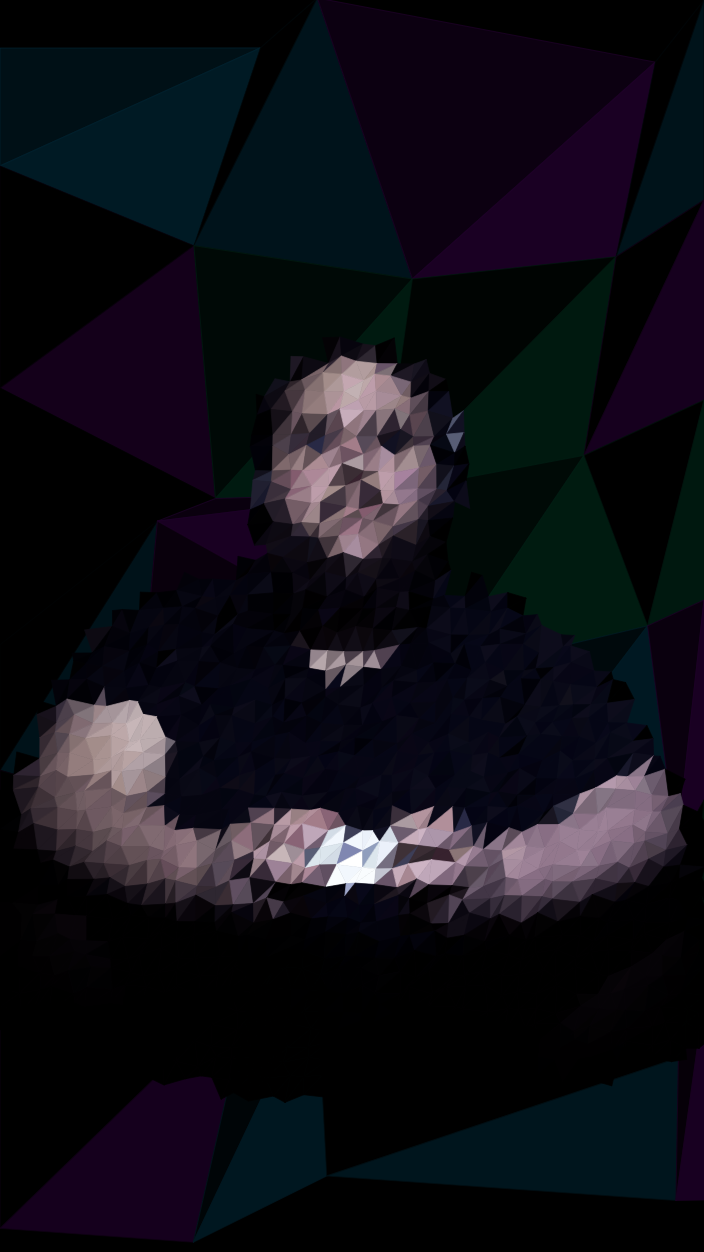
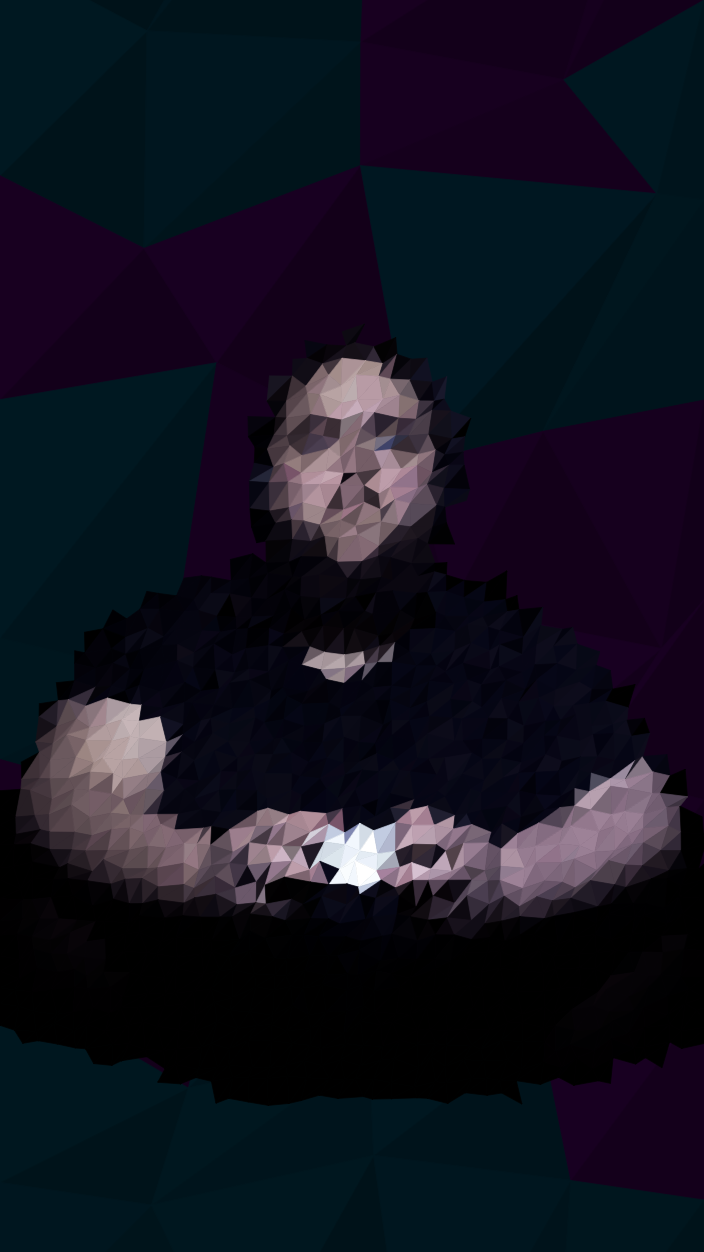
Post-project tweaks

diff --git a/sketch.js b/sketch.js
@@ -5,15 +5,10 @@
 let sourceImg=null;
 let maskImg=null;
 let renderCounter=0;
-let graphicElements=[];
 
 let sourceFile = "input_1.png";
 let maskFile   = "mask_1.png";
 let outputFile = "artwork_1.png";
-
-let graphicFile1 = "graphic.png";
-// let graphicFile2 = "graphic_3.png";
-
 
 function preload() {
   sourceImg = loadImage(sourceFile);
@@ -35,7 +30,7 @@ function setup () {
 
 function draw () {
   let outerPointSpacing = 200;
-  let outerPoints = getPoints(outerPointSpacing, outerPointSpacing/5, outerPointSpacing/2);
+  let outerPoints = getPoints(outerPointSpacing, outerPointSpacing/4, outerPointSpacing/3);
 
   // Inner Points
   let innerPointSpacing = 18;
@@ -46,7 +41,7 @@ function draw () {
 
   // Draw Outer Points
   strokeWeight(0.7);
-  let colors = [color(0, 184, 255), color(189, 0, 255), color(0, 200, 124)]; //
+  let colors = [color(0, 184, 255), color(189, 0, 255)];//, color(0, 200, 124)]; //
   for (let i = 0; i < outerPoints.length-1; i++) {
     for (let j = 0; j < outerPoints[i].length-1; j++) {
       let p1 = outerPoints[i][j];
@@ -54,17 +49,17 @@ function draw () {
       let p3 = outerPoints[i][j+1];
       let p4 = outerPoints[i+1][j+1];
 
-      let randCol = colors[round(random(0, colors.length-1))];
 
       // upper left triangle
       let x = (p1.x + p2.x + p3.x) / 3.0;
       let y = (p1.y + p2.y + p3.y) / 3.0;
 
-      let randVal = random(0.5, 0.7);
+      let randCol = colors[round(random(0, colors.length-1))];
+      let randVal = random(0.115, 0.13);
       // stroke(0);
-      stroke(color(lerpColor(color(0), randCol, randVal-0.5)));
+      stroke(color(lerpColor(color(0), randCol, randVal)));
 
-      fill(color(lerpColor(color(0), randCol, randVal-0.6)));
+      fill(color(lerpColor(color(0), randCol, randVal)));
       triangle(p1.x, p1.y, p2.x, p2.y, p3.x, p3.y);
 
       // lower right triangle
@@ -72,7 +67,10 @@ function draw () {
       y = (p2.y + p3.y + p4.y) / 3.0;
 
       // randCol = colors[round(random(0, colors.length-1))];
-      fill(color(lerpColor(color(0), randCol, (randVal/4)-0.03)));
+      randVal = random(0.095, 0.11);
+
+      // randCol = colors[round(random(0, colors.length-1))];
+      fill(color(lerpColor(color(0), randCol, randVal)));
       triangle(p2.x, p2.y, p4.x, p4.y, p3.x, p3.y);
 
       // fill(lerpColor(color(0), randCol, 0.4));
@@ -116,7 +114,6 @@ function draw () {
 
 
 
-
   renderCounter = renderCounter + 1;
   if(renderCounter > 0) {
     console.log("Done!")
@@ -129,18 +126,18 @@ function draw () {
 
 function getPoints(pointSpacing, minRand, maxRand) {
   let points = [];
-  for (let y = 0; y < sourceImg.height; y+=pointSpacing) {
+  for (let y = 0-pointSpacing; y < sourceImg.height+pointSpacing; y+=pointSpacing) {
     points.push([]);
     points[points.length-1].push(createVector(0, y+random(-pointSpacing/4, pointSpacing/4)));
     for (let x = pointSpacing; x < sourceImg.width; x+=pointSpacing) {
 
       let randVec = p5.Vector.random2D();
       randVec.setMag(random(minRand, maxRand));
-      let yindex = round(y/pointSpacing);
-      if (yindex % 2 == 0){
+      let xindex = round(x/pointSpacing);
+      if (xindex % 2 == 0){
         points[points.length - 1].push(createVector(x + randVec.x, y + randVec.y));
       } else {
-        points[points.length - 1].push(createVector(x + randVec.x, y + randVec.y));
+        points[points.length - 1].push(createVector(x + randVec.x, y + randVec.y + pointSpacing/8));
 
       }
     }
